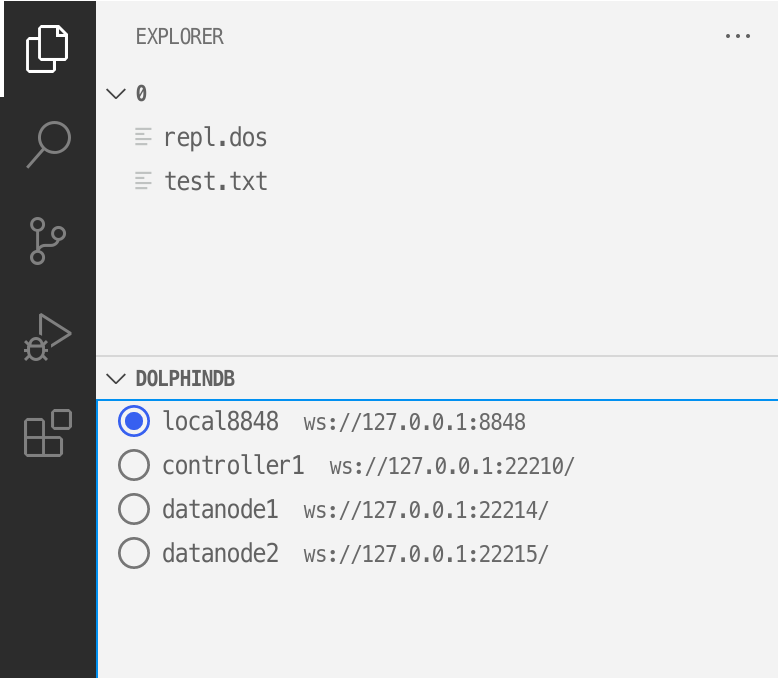
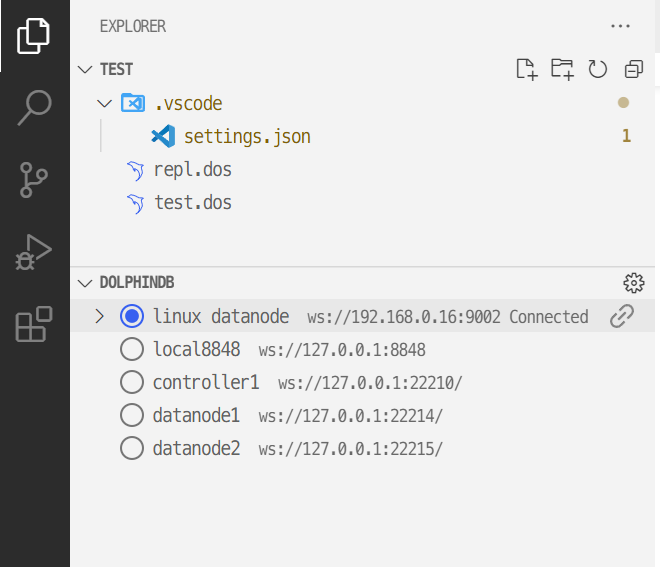
点击标量的变量也在下方展示，行为一致 变量区变量值展示和 dataview 保持一致 变量类型汉化 readme 中加入无法切换视图的解决方案

diff --git a/index.ts b/index.ts
@@ -636,18 +636,8 @@ const ddb_commands = [
     
     async function inspect_variable (ddbvar: DdbVar) {
         console.log(t('查看 dolphindb 变量:'), ddbvar)
-        
-        switch (ddbvar.form) {
-            case DdbForm.vector:
-            case DdbForm.set:
-            case DdbForm.matrix:
-            case DdbForm.table:
-            case DdbForm.chart:
-            case DdbForm.dict:
-                lastvar = ddbvar
-                await ddbvar.inspect()
-                break
-        }
+        lastvar = ddbvar
+        await ddbvar.inspect()
     },
     
     async function open_variable (ddbvar: DdbVar = lastvar) {
@@ -1559,6 +1549,19 @@ class DdbVarLocation extends TreeItem {
 
 
 class DdbVarForm extends TreeItem {
+    static form_names = {
+        [DdbForm.scalar]: t('标量'),
+        [DdbForm.vector]: t('向量'),
+        [DdbForm.pair]: t('数对'),
+        [DdbForm.matrix]: t('矩阵'),
+        [DdbForm.set]: t('集合'),
+        [DdbForm.dict]: t('词典'),
+        [DdbForm.table]: t('表格'),
+        [DdbForm.chart]: t('绘图'),
+        [DdbForm.object]: t('对象'),
+    } as const
+    
+    
     connection: DdbConnection
     
     shared: boolean
@@ -1568,7 +1571,7 @@ class DdbVarForm extends TreeItem {
     vars: DdbVar[]
     
     constructor (connection: DdbConnection, shared: boolean, form: DdbForm) {
-        super(DdbForm[form], TreeItemCollapsibleState.Expanded)
+        super(DdbVarForm.form_names[form] || DdbForm[form], TreeItemCollapsibleState.Expanded)
         this.connection = connection
         this.shared = shared
         this.form = form
@@ -1637,19 +1640,19 @@ class DdbVar <TObj extends DdbObj = DdbObj> extends TreeItem {
                         return `<${tname}>`
                     
                     case DdbForm.vector:
-                        return `<${ 64 <= this.type && this.type < 128 ? `${DdbType[this.type - 64]}[]` : tname }> ${this.rows} rows`
+                        return `<${ 64 <= this.type && this.type < 128 ? `${DdbType[this.type - 64]}[]` : tname }> ${this.rows} ${t('个元素')}`
                     
                     case DdbForm.set:
-                        return `<${tname}> ${this.rows} keys`
+                        return `<${tname}> ${this.rows} ${t('个元素')}`
                     
                     case DdbForm.table:
-                        return ` ${this.rows}r × ${this.cols}c`
+                        return ` ${this.rows} ${t('行')} ${this.cols} ${t('列')}`
                     
                     case DdbForm.dict:
-                        return ` ${this.rows} keys`
+                        return ` ${this.rows} ${t('个键')}`
                     
                     case DdbForm.matrix:
-                        return `<${tname}> ${this.rows}r × ${this.cols}c`
+                        return `<${tname}> ${this.rows} ${t('行')} ${this.cols} ${t('列')}`
                     
                     case DdbForm.object:
                         return ''
@@ -1675,7 +1678,7 @@ class DdbVar <TObj extends DdbObj = DdbObj> extends TreeItem {
                         return ''
                     
                     default:
-                        return ` [${Number(this.bytes).to_fsize_str().replace(' ', '')}]`
+                        return ` (${Number(this.bytes).to_fsize_str()})`
                 }
             })()
             

diff --git a/webpack.ts b/webpack.ts
@@ -371,19 +371,27 @@ export async function build_package_json (production: boolean) {
                                 autologin: true,
                                 username: 'admin',
                                 password: '123456',
-                                python: false,
                             },
                             {
                                 name: 'controller1',
                                 url: 'ws://127.0.0.1:22210/',
+                                autologin: true,
+                                username: 'admin',
+                                password: '123456',
                             },
                             {
                                 name: 'datanode1',
                                 url: 'ws://127.0.0.1:22214/',
+                                autologin: true,
+                                username: 'admin',
+                                password: '123456',
                             },
                             {
                                 name: 'datanode2',
                                 url: 'ws://127.0.0.1:22215/',
+                                autologin: true,
+                                username: 'admin',
+                                password: '123456',
                             },
                         ],
                         description: '%configs.connections.description%',

diff --git a/README.md b/README.md
@@ -27,6 +27,7 @@ DolphinDB has developed this VSCode extension for the DolphinDB database, adding
 - Code completion for keywords, constants, built-in functions
 - Documentation hints, parameter hints for built-in functions
 - The terminal can display the results of code execution and the messages output by the print function
+- Display the execution status in the bottom bar, click to cancel the job
 - Display data structures such as tables, vectors, matrices, etc. in tabular form in the bottom panel
 - Manage multiple database connections in the side panel, showing session variables
 - Display table in browser popup
@@ -51,17 +52,16 @@ After installing the plugin, please completely quit all windows of VSCode and re
 
 #### 3. View and edit server connection configuration
 ##### Connections can be viewed in the DolphinDB area of the EXPLORER panel on the left side of the VSCode editor
-After the plugin is successfully installed, the DOLPHIDB area below will be added to the EXPLORER panel
+After the plug-in is successfully installed, the following DOLPHINDB connection management area will be added in the Explorer (EXPLORER) panel
 
 <img src='./images/connections.png' width='400'>
 
 ##### Edit connections
-Click `File > Preferences > Settings` in the menu bar or press the shortcut `Ctrl + Comma` to open the VSCode settings  
-Enter dolphindb in the search box, click `edit in settings.json` below, and edit the `dolphindb.connections` configuration item in the `settings.json` configuration file jumped to.  
-The `dolphindb.connections` configuration item is an array of objects.  
-There are four connection configurations by default. You can modify or add connection objects according to the situation.
-`name` and `url` attributes are required (different connection objects must have different `name`), by default the admin account is automatically logged in.  
-Move the mouse over an attribute to view the description of the corresponding attribute.
+Click the `settings` button in the upper right corner, and then jump to the `settings.json` configuration file to edit the `dolphindb.connections` configuration item  
+`dolphindb.connections` configuration item is an object array, there are four connection configurations by default, you can modify or add connection objects according to the situation,  
+The `name` and `url` attributes are required (different connection objects must have different `name`), and the default is to automatically log in to the admin account ("autologin": true)  
+Move the mouse over the attribute to view the description of the corresponding attribute
+
 
 #### 4. Open or create a DolphinDB script file
 - If the script file name is suffixed with `.dos` (short for DolphinDB Script), the plugin will automatically recognize the DolphinDB language, and automatically enable syntax highlighting, code completion, and prompts
@@ -77,22 +77,26 @@ In the opened DolphinDB script file, you can press the shortcut key `Ctrl + E` t
 - If there is currently selected code, the selected code will be sent to DolphinDB Server for execution
 - If there is no currently selected code, the line where the current cursor is will be sent to DolphinDB Server for execution
 
-After the code is executed, there will be text-based output in the terminal below the VSCode editor. If the last statement of the executed code returns a table, array, or matrix, it will be displayed in the form of a table in the DolphinDB area of the lower panel of the VSCode editor. Data structures such as tables, vectors, matrices, etc. It is recommended to drag the content of the DolphinDB tab to the right side of the terminal, as shown below
+After the code is executed, there will be text-based output in the terminal below the VSCode editor. If the last statement of the executed code returns a table, array, or matrix, it will automatically switch to the DolphinDB area of the panel below the VSCode editor. Forms to display data structures such as tables, vectors, and matrices. It is recommended to drag the contents of the DolphinDB tab to the right side of the terminal, as shown in the figure below
 
 <img src='./images/drag-dataview.png' width='600'>
 
 <img src='./images/with-dataview.png' width='600'>
 
-If there is a server connection error (eg: `ws://192.168.1.111:8848` errored), you can first try to access the corresponding server address with a browser `http://192.168.1.111:8848`  
-If you can open the web page and use it normally, check again:
-- Execute the `version()` function, the returned version of DolphinDB Server should not be lower than `1.30.16` or `2.00.4`
-- If there is a configured system proxy, the proxy software and proxy server need to support WebSocket connections, otherwise please turn off the proxy in the system, or add the DolphinDB Server IP to the exclusion list, and then restart VSCode
+##### FAQ
 
-VSCode has a memory limit of about `1 GB`. It is recommended to use `limit` to limit the number of returned records; or assign the result to a variable, such as `a = select * from`, then click the button next to the sidebar variable to perform paging lazy loading, and retrieve a single page of data as needed
+- If there is an error like `Webview fatal error: Error: Could not register service workers: InvalidStateError: Failed to register a ServiceWorker: The document is in an invalid state..`, please restart VSCode
 
-(If you need to customize the shortcut keys, you can also modify them in `File > Preferences > Keyboard Shortcuts` in VSCode, enter dolphindb, find `execute`, double-click, and enter the shortcut key you want)
+- If there is no automatic switch to the DolphinDB view at the bottom after executing the code and returning to the form, you need to reset the position of the DolphinDB view, as shown in the figure below
+<img src='./images/reset-location.png' width='400'>
 
-(In order to display data in the browser, each VSCode window will start a local HTTP server, whose ports can be configured through `dolphindb.ports` configuration. The default is` 8321-8420`. Suspend mouse on ports to view detailed explanation.)
+- If there is no response to the `Ctrl + E` shortcut key, it may be that the DolphinDB language is not associated (syntax highlighting does not take effect at this time), or the shortcut key conflicts with other plugins, and you need to customize the shortcut key:
+Go to `File > Preferences > Keyboard Shortcuts` (`File > Preferences > Keyboard Shortcuts`) of VSCode to modify, enter `ctrl+e` in the search box, and delete other plug-ins that conflict with `DolphinDB: Execute Code` hot key
+<img src='./images/key-bindings.png' width='600'>
+
+- VSCode has a memory limit of about `1 GB`. It is recommended to use `limit` to limit the number of returned records; or assign the result to a variable, such as `a = select * from`, and then click the button next to the variable in the sidebar to perform paging lazy loading and retrieve single page data on demand
+
+- In order to display tables and other data in the browser, each VSCode window will start a local HTTP server, and its available port range can be configured through `dolphindb.ports`, the default is `8321-8420`, hover the mouse over ports to view Detailed explanation
 
 #### 6. Switch connections and view session variables for connections in the DOLPHIDB area of the EXPLORER panel on the left side of the VSCode editor
 
@@ -115,6 +119,3 @@ When entering a DolphinDB built-in function in the VSCode editor, click the arro
 <img src='./images/expand-doc.png' width='800'>
 
 After the function input is complete, hover the mouse over the function name to view the function documentation
-
-## User Manual
-https://github.com/dolphindb/Tutorials_EN/blob/master/vscode_extension.md
